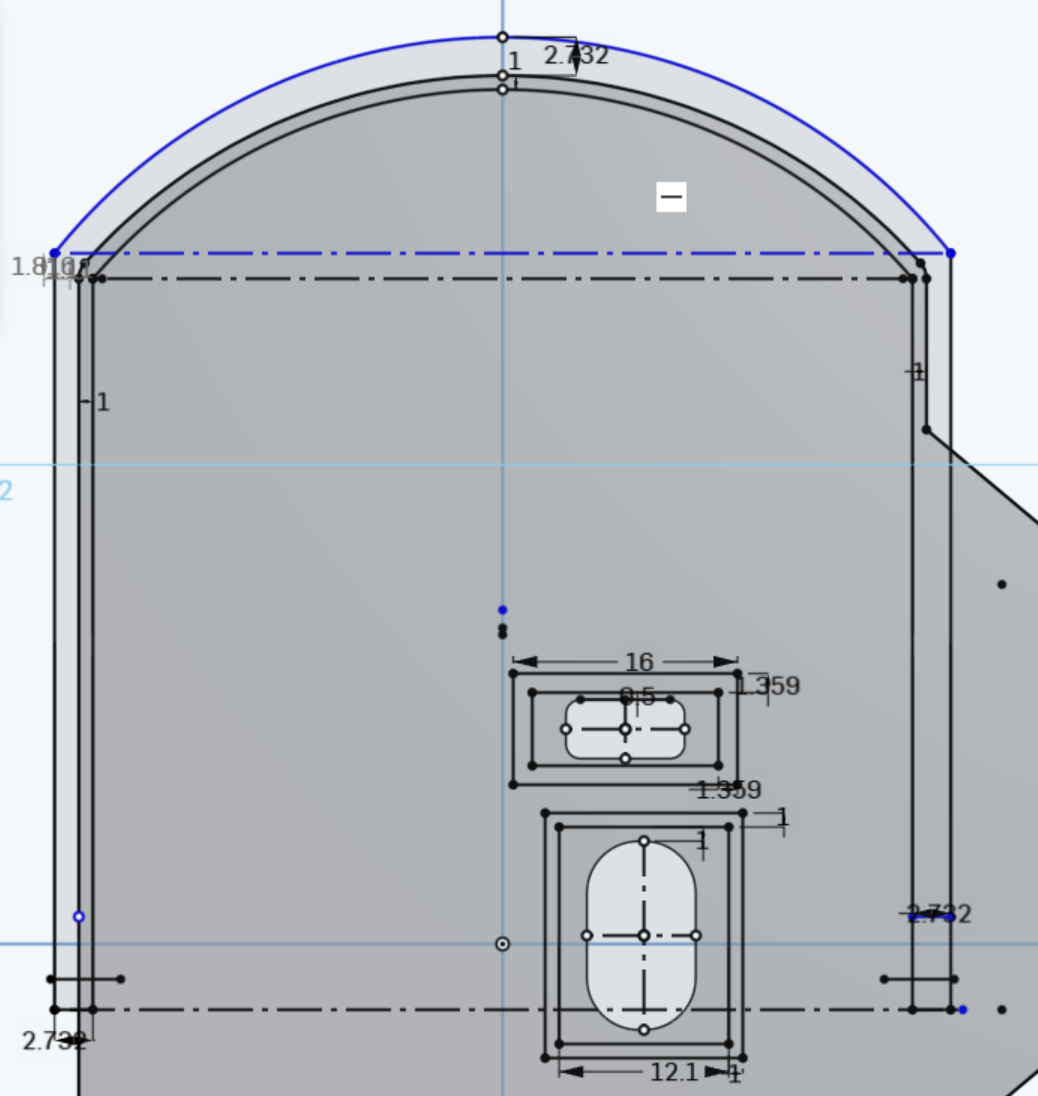
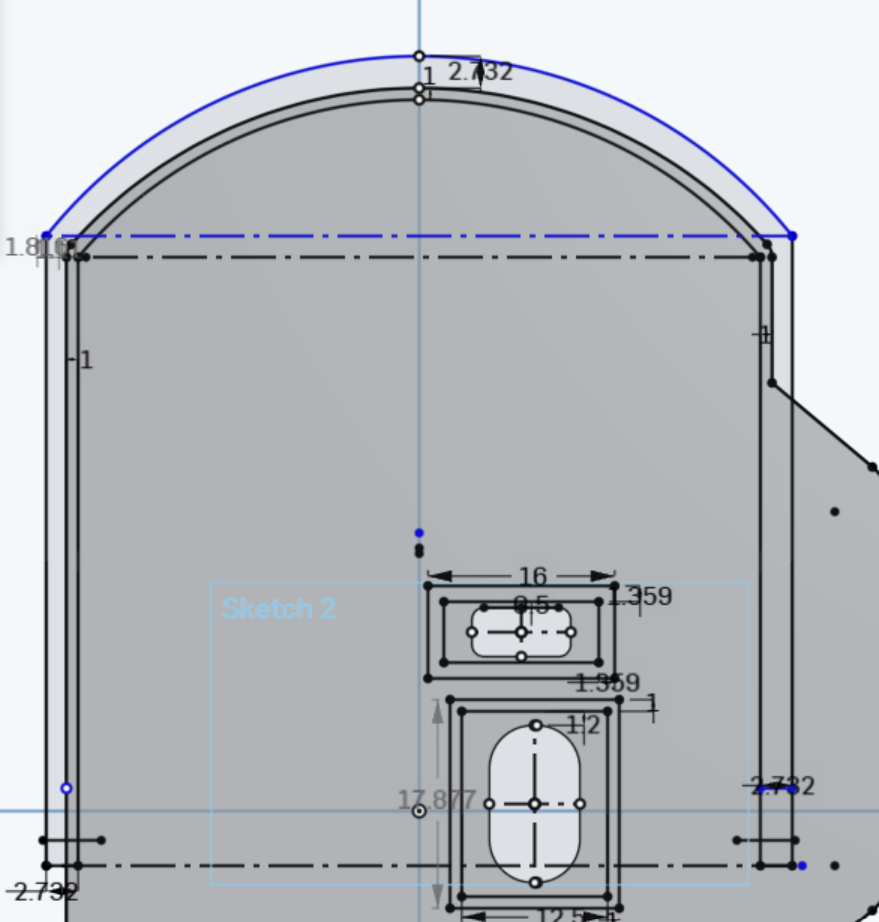
fuck

diff --git a/src/pages/Design.tsx b/src/pages/Design.tsx
@@ -149,8 +149,8 @@ function Design() {
     <div>
       <p>3. sensor and switch walls:</p>
       <p>measurements: </p>
-      <p>fig. 1: 1.359mm, 16mm, .75mm, .25mm, 12.1</p>
-      <p>fig. 2: 2.732mm, 12.1</p>
+      <p>fig. 1: 1.359mm, 16mm, .75mm, .25mm</p>
+      <p>fig. 2: 2.732mm, 12.5, 1.2, 1.359, 1, 16, .5</p>
       <p> extrude the edges by 2.8mm. extrude the inside of the horizontal rectangle by .75mm</p>
     <div className="hor wrap">
         <img src={tut_4} className='tutImg'></img>
